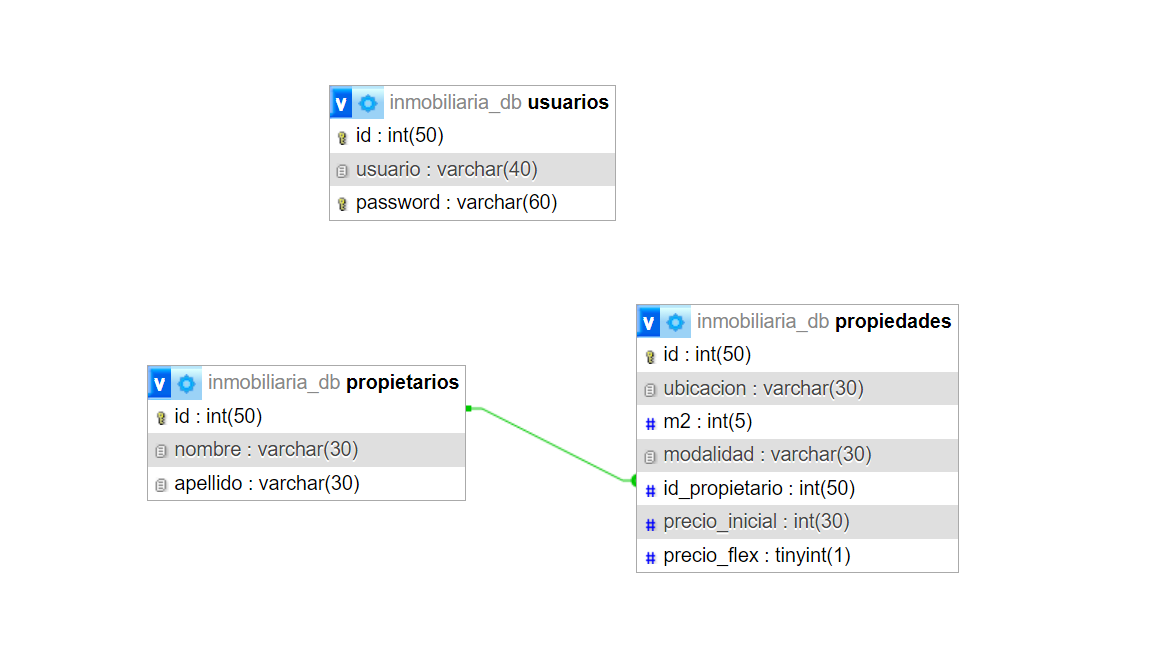
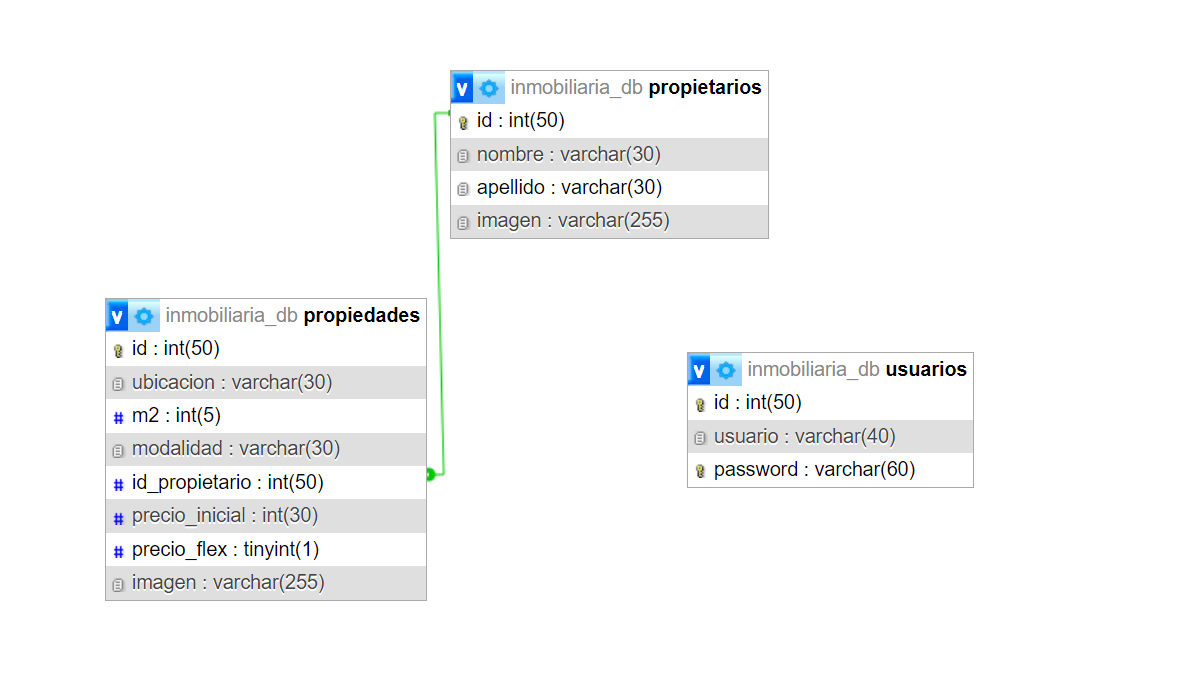
update png and readme

diff --git a/README.md b/README.md
@@ -1,12 +1,12 @@
-# TPE 2024 - Primera parte - Dominio
-## Consigna
+# TPE 2024 - Proyecto Inmobiliria-FN
 
-Se propone diseñar una base de datos que pueda almacenar un conjunto de elementos
-clasificados en categorías o un conjunto de elementos con un subconjunto de
-detalles. Esta base de datos será luego expuesta y administrada vía web.
+# Desarolladores
+Escudero Nicolas - Barberia Facundo
 
+## Descripción
+Este proyecto consiste en una base de datos para una inmobiliria. El objetivo es gestionar propiedades y propietarios que quieran mostrar sus viviendas a las personas. La base de datos está diseñada para facilitar la administración de las propiedades y las interacciones con los usuarios.
 
-# Inmobiliaria
+# Explicacion de la Inmobiliaria
 ## Tablas
 1.  **`propietarios`**  
    Contiene propietarios de propiedades (Categorías).
@@ -14,18 +14,25 @@ detalles. Esta base de datos será luego expuesta y administrada vía web.
 2. **`propiedades`**  
    Describe las propiedades, asociadas a `propietarios` con `id_propietario` y se actualizan automáticamente si el `id` de `propietario` cambia (Elemento).
 
+3. **`usuario`**  
+   Describe los usuarios, asiciasdos al login en el sitio web con `usuario` y `password` para que si los valores considen el usuario pueda hacer cambios en los campos `propietarios` y `propiedades`.
    
+# Diagrama del Modelo de Datos
 ![](https://github.com/N1ckyto/Inmobiliaria_WEB2/blob/main/Inmobiliria_db.png)
 
-# Estudiantes
-Escudero Nicolas - Barberia Facundo
+# Desplegar sitio web
+Pasos a seguir para poder desplegar el sitio web:
 
-## Instalación y Configuración
-
-1. **Importar la base de datos**:
-   Importar el archivo `inmobiliaria_db.sql` en PHPMyAdmin para cargar la estructura y datos iniciales.
+1. Instalar XAMPP en la computadora local junto con PhpMyAdmin.
+2. Encender Apache y MySQL para utilizar la misma como servidor local.
+3. Crear una base de datos en PhpMyAdmin.
+4. Importar el archivo `inmobiliaria_db.sql` en PHPMyAdmin para cargar la estructura y datos iniciales.
+5. Navegar por la pagina WEB.
 
 # Usuario admin
-username: `webadmin`
-password: `admin`
+Para poder loguearse como administrador es necesario contar con la siguiente información:
+1. Username: `webadmin`.
+2. Password: `admin`.
+
+
 
